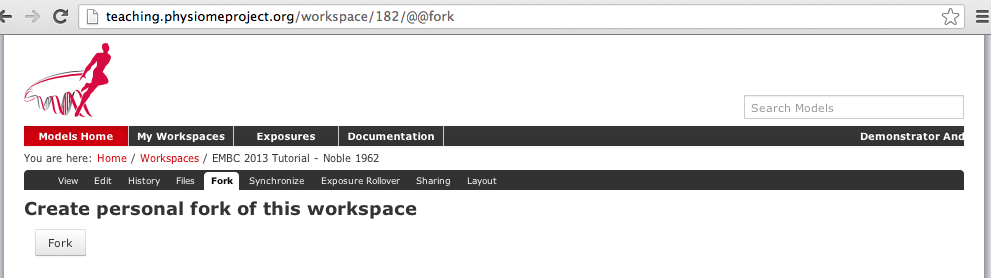
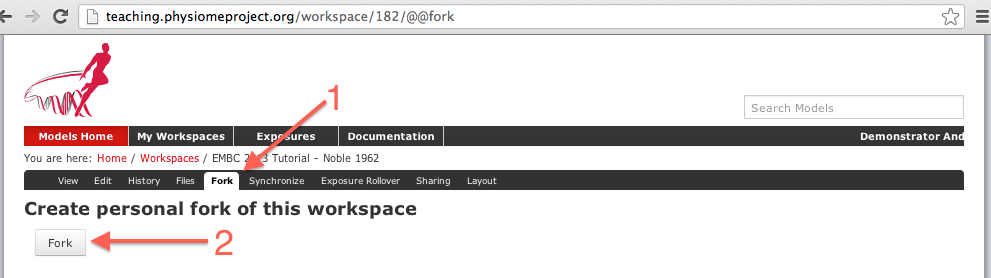
annotating the forking image to clarify the sequence of steps.

Changed region(s): [[0.0908, 0.8345, 0.2422, 0.9209], [0.2422, 0.3741, 0.333, 0.6331], [0.333, 0.3165, 0.3633, 0.3741]]

diff --git a/tutorials/embc13/scenario3/opencor.rst b/tutorials/embc13/scenario3/opencor.rst
@@ -15,13 +15,13 @@ For this tutorial, we will :term:`fork` an existing workspace. This creates a ne
 
 Forking a workspace can be done using the Physiome Model Repository web interface. The first step is to find the workspace you wish to fork. We will use the *EMBC 2013 Tutorial - Noble 1962* :term:`workspace` from the exposure referenced above, which can be found at: `<http://teaching.physiomeproject.org/workspace/182>`_.
 
-Now click on the :guilabel:`fork` option in the toolbar, as shown below.
+Now click on the :guilabel:`fork` option in the toolbar, as shown below (1).
 
 .. figure:: images/forkN62.png
    :align: center
    :width: 80%
 
-You will be asked to confirm the *fork* action by clicking the :guilabel:`Fork` button. You will then be shown the page for your forked workspace.
+You will be asked to confirm the *fork* action by clicking the :guilabel:`Fork` button (2). You will then be shown the page for your forked workspace.
 
 Cloning your forked workspace
 -----------------------------
